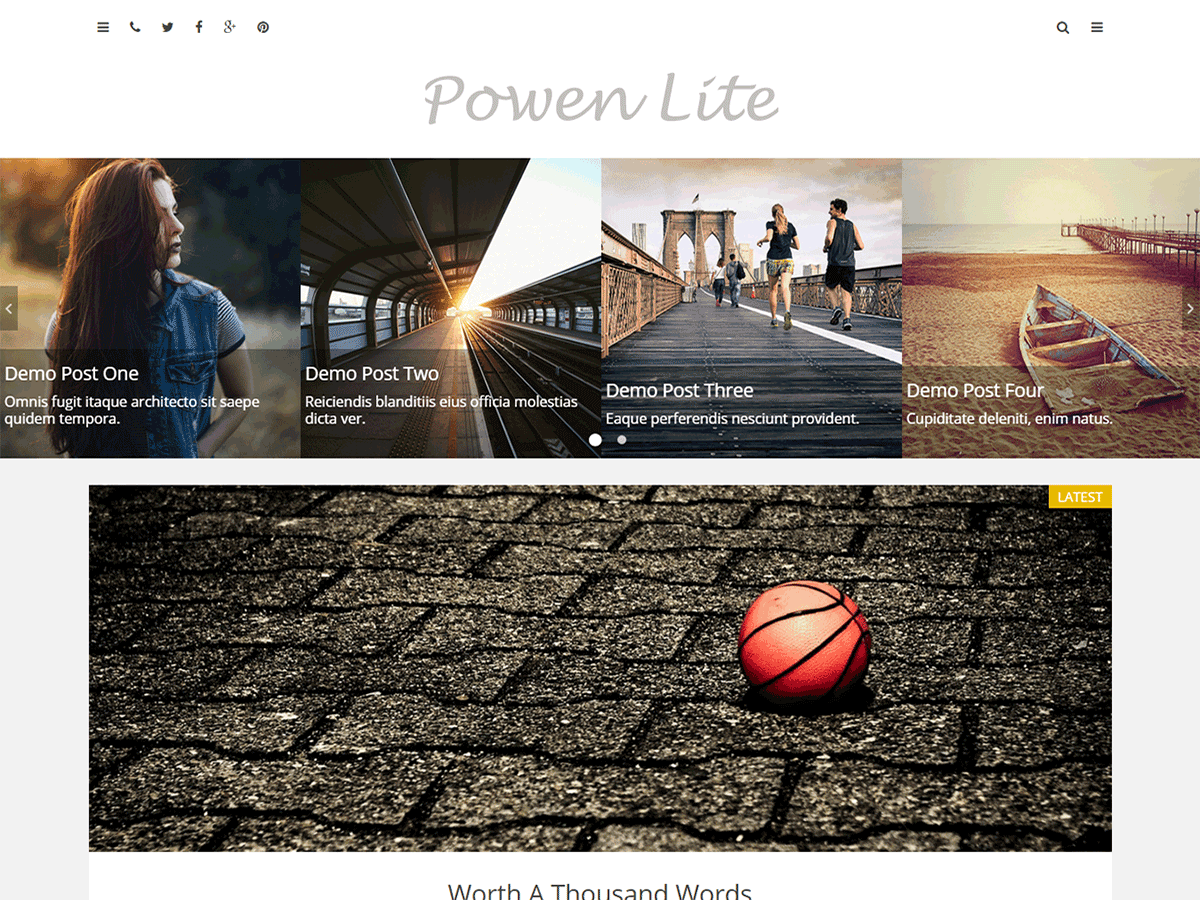
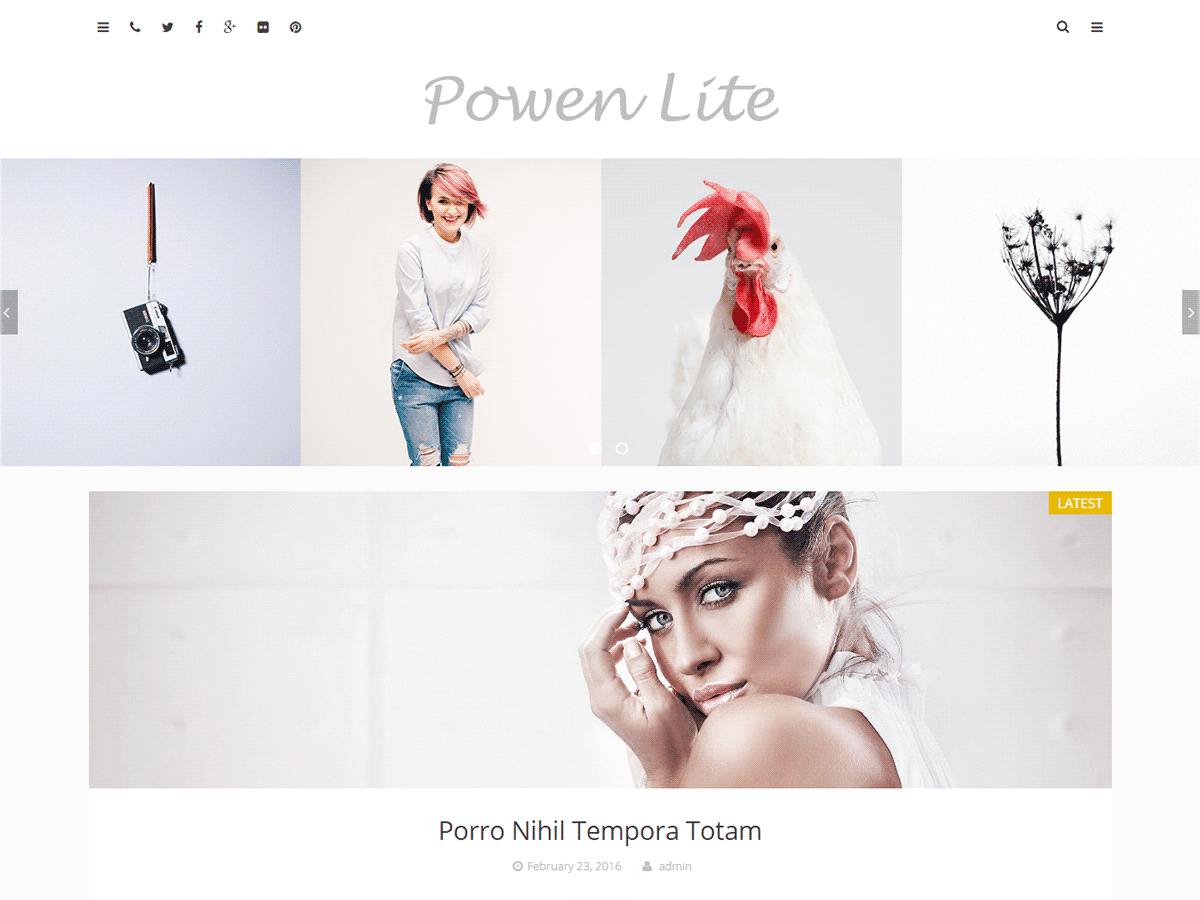
Change screenshot and slider images

diff --git a/style.css b/style.css
@@ -4,7 +4,7 @@ Theme URI: http://supernovathemes.com/powen-theme/
 Author: Mahvash Fatima
 Author URI: http://supernovathemes.com
 Description: Powen Lite has been specially designed for blogging websites however due to its clean design and plenty of customization options, it can easily be customized for any purpose.
-Version: 1.6.5
+Version: 1.6.6
 License: GNU General Public License v2 or later
 License URI: http://www.gnu.org/licenses/gpl-2.0.html
 Text Domain: powen-lite
@@ -719,7 +719,9 @@ input[type="submit"] {
   right: 0;
   margin: 0 auto;
   -webkit-transform: translateY(-50%);
+  -moz-transform: translateY(-50%);
   -ms-transform: translateY(-50%);
+  -o-transform: translateY(-50%);
   transform: translateY(-50%);
 }
 
@@ -1314,8 +1316,7 @@ ul, ol {
   padding-right: 1.5625rem;
   display: none;
   box-shadow: 0px 0px 0px 1px #fafafa;
-  -webkit-transition: none;
-          transition: none;
+  transition: none;
 }
 
 .fa-search {
@@ -1553,8 +1554,7 @@ ul, ol {
   z-index: 100;
   color: #ffffff;
   cursor: pointer;
-  -webkit-transition: 0.3s;
-          transition: 0.3s;
+  transition: 0.3s;
   display: none;
 }
 .footer-scroll:hover {
@@ -1649,7 +1649,9 @@ h6 {
 
   .powen-slide .powen-slider-content {
     -webkit-transform: translateY(0%);
+    -moz-transform: translateY(0%);
     -ms-transform: translateY(0%);
+    -o-transform: translateY(0%);
     transform: translateY(0%);
     opacity: 1;
   }
@@ -1819,9 +1821,7 @@ blockquote:before,
   text-rendering: auto;
   -webkit-font-smoothing: antialiased;
   -moz-osx-font-smoothing: grayscale;
-  -webkit-transform: translate(0, 0);
-      -ms-transform: translate(0, 0);
-          transform: translate(0, 0);
+  transform: translate(0, 0);
 }
 
 /**---------------
@@ -1956,7 +1956,9 @@ blockquote:before {
 }
 .powen-slide:hover .powen-slider-content {
   -webkit-transform: translateY(0%);
+  -moz-transform: translateY(0%);
   -ms-transform: translateY(0%);
+  -o-transform: translateY(0%);
   transform: translateY(0%);
   opacity: 1;
 }
@@ -1970,9 +1972,13 @@ blockquote:before {
   padding: 0.3125rem;
   background: rgba(0, 0, 0, 0.3);
   -webkit-transform: translateY(100%);
+  -moz-transform: translateY(100%);
   -ms-transform: translateY(100%);
+  -o-transform: translateY(100%);
   transform: translateY(100%);
   -webkit-transition: 0.5s;
+  -moz-transition: 0.5s;
+  -o-transition: 0.5s;
   transition: 0.5s;
   opacity: 0;
 }
@@ -2000,3 +2006,5 @@ blockquote:before {
 .slick-prev:before {
   margin-left: 0.1875rem;
 }
+
+/*# sourceMappingURL=style.css.map */

diff --git a/sass/style.scss b/sass/style.scss
@@ -4,7 +4,7 @@ Theme URI: http://supernovathemes.com/powen-theme/
 Author: Mahvash Fatima
 Author URI: http://supernovathemes.com
 Description: Powen Lite has been specially designed for blogging websites however due to its clean design and plenty of customization options, it can easily be customized for any purpose.
-Version: 1.6.5
+Version: 1.6.6
 License: GNU General Public License v2 or later
 License URI: http://www.gnu.org/licenses/gpl-2.0.html
 Text Domain: powen-lite

diff --git a/lib/custom-functions.php b/lib/custom-functions.php
@@ -51,42 +51,42 @@ if( ! function_exists( 'powen_default_slides' ) ) :
 					'title'       => __('Demo Post One', 'powen-lite'),
 					'link' 		  => home_url( '/' ),
 					'description' => __('Omnis fugit itaque architecto sit saepe quidem tempora.', 'powen-lite'),
-					'image'       => get_template_directory_uri() . '/images/slides/slide8.png',
+					'image'       => get_template_directory_uri() . '/images/slides/slide8.jpg',
 	            ),
 	        array
 	            (
 					'title'       => __('Demo Post Two', 'powen-lite'),
 					'link' 		  => home_url( '/' ),
 					'description' => __('Reiciendis blanditiis eius officia molestias dicta ver.', 'powen-lite'),
-					'image'       => get_template_directory_uri() . '/images/slides/slide7.png',
+					'image'       => get_template_directory_uri() . '/images/slides/slide7.jpg',
 	            ),
 	        array
 	            (
 					'title'       => __('Demo Post Three', 'powen-lite'),
 					'link' 		  => home_url( '/' ),
 					'description' => __('Eaque perferendis nesciunt provident.', 'powen-lite'),
-					'image'       => get_template_directory_uri() . '/images/slides/slide6.png',
+					'image'       => get_template_directory_uri() . '/images/slides/slide6.jpg',
 	            ),
 	        array
 	            (
 					'title'       => __('Demo Post Four', 'powen-lite'),
 					'link' 		  => home_url( '/' ),
 					'description' => __('Cupiditate deleniti, enim natus.', 'powen-lite'),
-					'image'       => get_template_directory_uri() . '/images/slides/slide5.png',
+					'image'       => get_template_directory_uri() . '/images/slides/slide5.jpg',
 	            ),
 	        array
 	            (
 					'title'       => __('Demo Post Five', 'powen-lite'),
 					'link' 		  => home_url( '/' ),
 					'description' => __('Temporibus eaque rem unde iste fugasse quaerat quo ven.', 'powen-lite'),
-					'image'       => get_template_directory_uri() . '/images/slides/slide4.png',
+					'image'       => get_template_directory_uri() . '/images/slides/slide4.jpg',
 	            ),
 	        array
 	            (
 					'title'       => __('Demo Post Six', 'powen-lite'),
 					'link' 		  => home_url( '/' ),
 					'description' => __('Perferendis quasi totam voluptates quo quaerat tempori.', 'powen-lite'),
-					'image'       => get_template_directory_uri() . '/images/slides/slide3.png',
+					'image'       => get_template_directory_uri() . '/images/slides/slide3.jpg',
 	            ),
 	        array
 	            (
@@ -100,7 +100,7 @@ if( ! function_exists( 'powen_default_slides' ) ) :
 					'title'       => __('Demo Post Eight', 'powen-lite'),
 					'link' 		  => home_url( '/' ),
 					'description' => __('Libero mollitia error expedita totam iste minus cumque.', 'powen-lite'),
-					'image'       => get_template_directory_uri() . '/images/slides/slide1.png',
+					'image'       => get_template_directory_uri() . '/images/slides/slide1.jpg',
 	            )
 	    ) );
 	}
